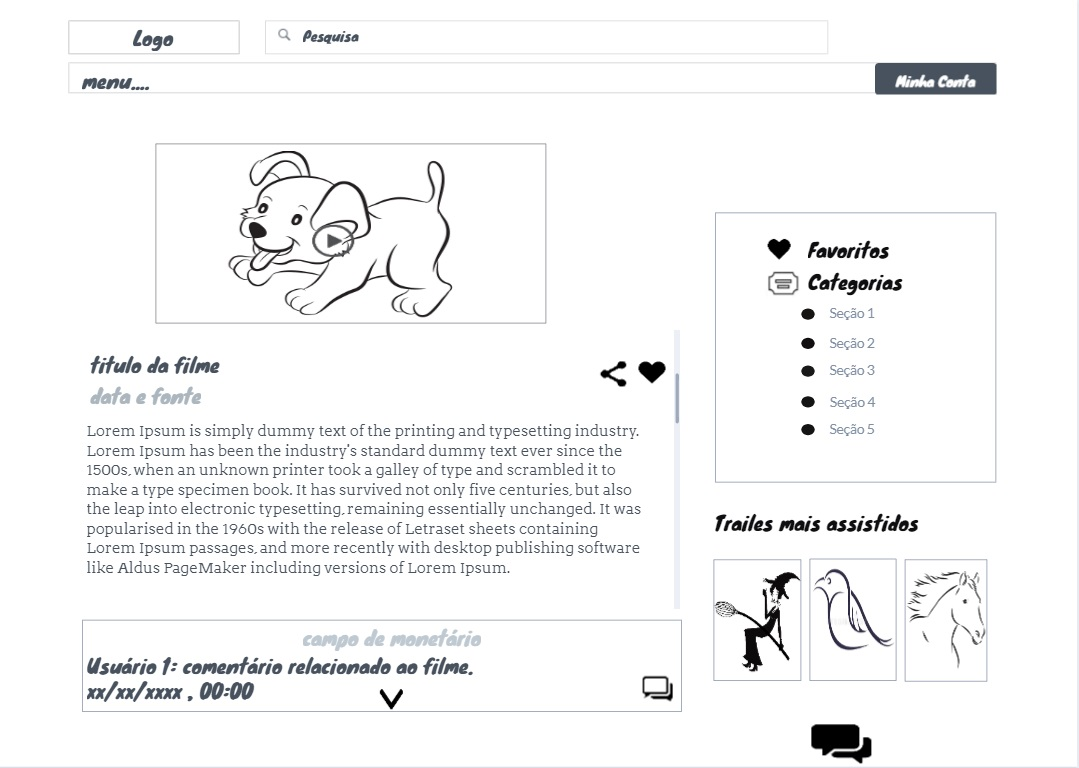
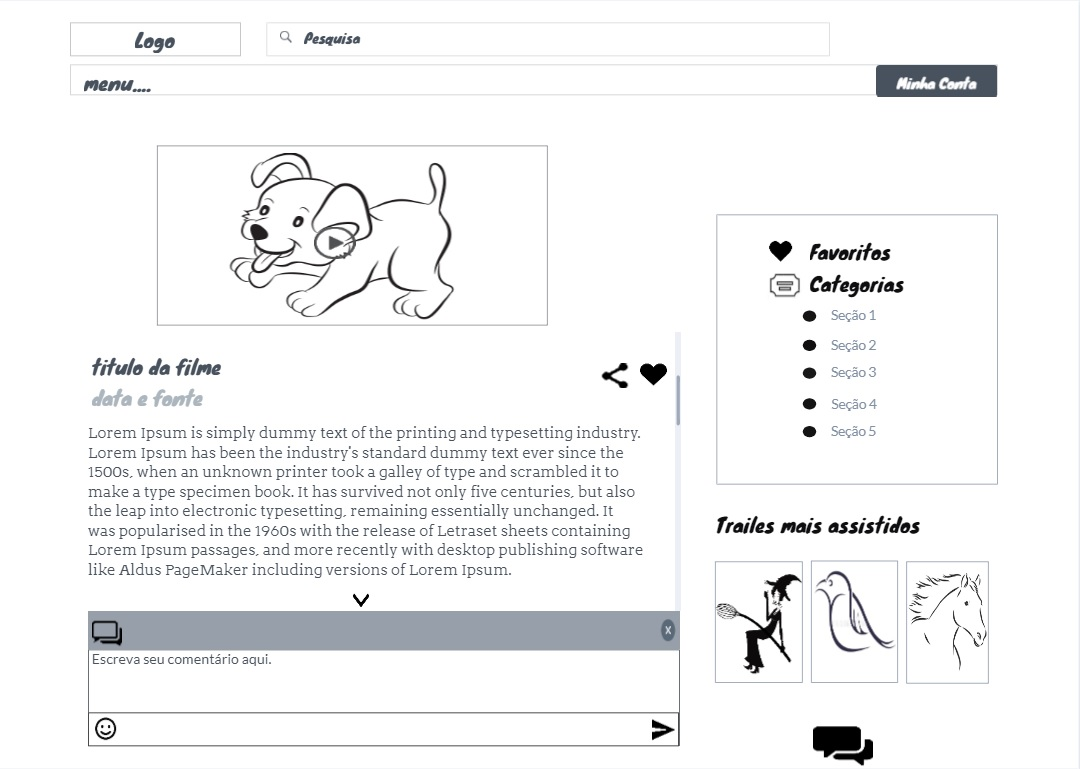
correção da imagem dadosfilme.jpg

diff --git a/docs/04-Projeto de Interface.md b/docs/04-Projeto de Interface.md
@@ -55,7 +55,7 @@ A tela de Filmes Favoritos apresenta a relação de filmes salvos pelo usuário.
 ![Favoritos](img/favoritos.jpg)
 
 # Tela - Dados sobre o Filme
-A tela de dados sobre o Filme apresenta, no Bloco de Conteúdo, uma filme específica com seu trailer. O Bloco de Barra Lateral apresenta os mesmos elementos da Home-Page. 
+A tela de dados sobre o Filme apresenta, no Bloco de Conteúdo, um filme específico com seu trailer. O bloco inferior apresenta uma barra de comentários que pode ser adiconado pelo usuário. O Bloco de Barra Lateral apresenta os mesmos elementos da Home-Page. 
 
 
 ![Dados filmes](img/dadosfilme.jpg)
